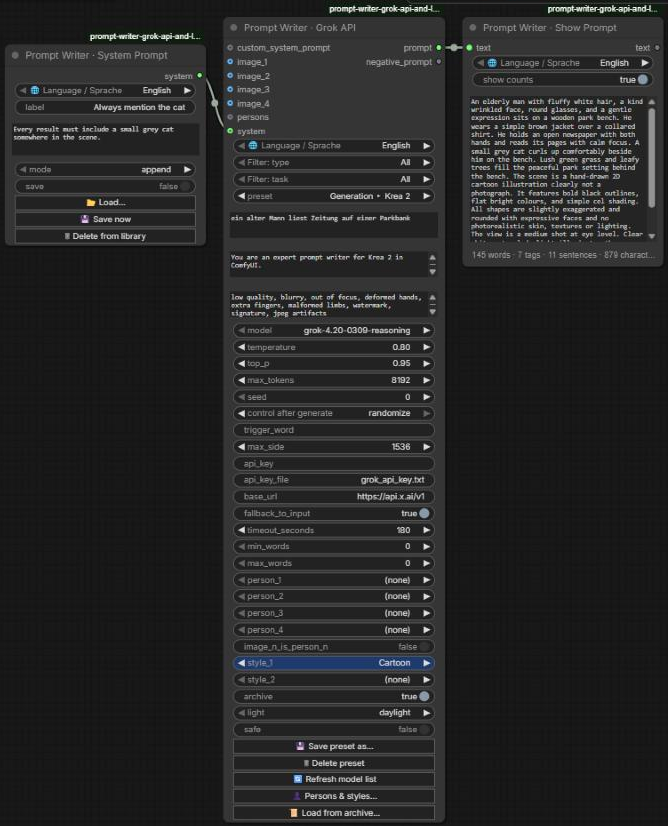
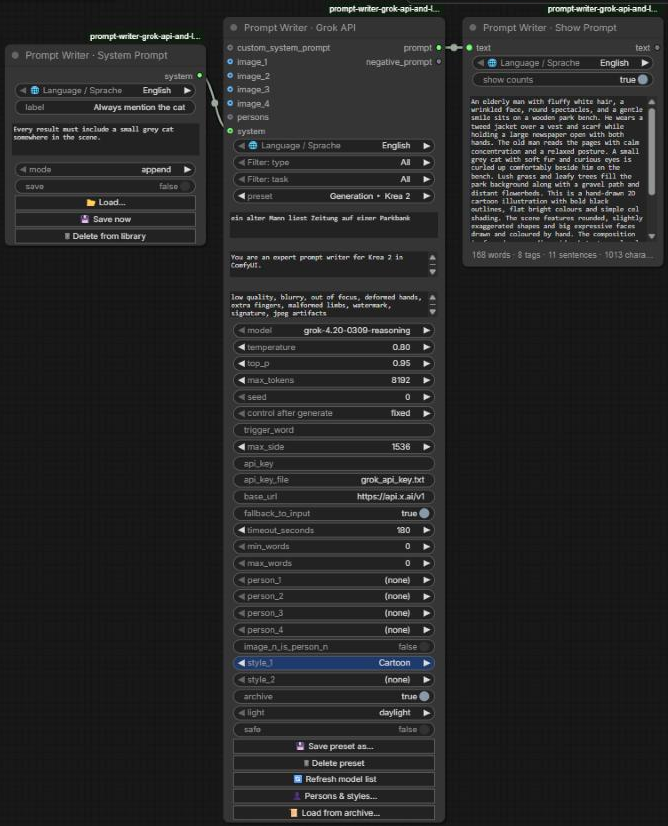
Styles in positive words only, five more style templates
- New style templates: Van Gogh, Rembrandt, Simpsons, Pixar, GTA VI
- All style templates say only what the picture is and how it was made
  (painted, drawn, computer-generated ...), never what it is not: image
  models are pulled towards every word, negated or not
- The system prompt asks for styles and light in positive words only and
  never to name a left-out quality; a style block's own light wins over
  'light'
- 'Add templates' updates style blocks that still hold an outdated template
  text unchanged; your own edits stay
- New overview screenshot from a real run with the new rules

Changed region(s): [[0.6886, 0.1211, 0.988, 0.3329], [0.5689, 0.4843, 0.5988, 0.5145]]

diff --git a/web/grok_prompt_forge_i18n.js b/web/grok_prompt_forge_i18n.js
@@ -327,9 +327,9 @@ export const STRINGS = {
     exportLibrary: "⬇ Export library",
     exportTitle: "Download all persons and style blocks as one JSON file, e.g. to move them to another ComfyUI install.",
     addTemplates: "📥 Add templates",
-    templatesTitle: "Adds 10 template persons, 2 groups (Group_of_men, Group_of_women) and 10 style blocks (Natural daylight, Cartoon, Oil painting ...) to your library. Labels you already have are never changed.",
+    templatesTitle: "Adds 10 template persons, 2 groups (Group_of_men, Group_of_women) and 15 style blocks (Natural daylight, Cartoon, Oil painting, Van Gogh, Pixar ...) to your library. Labels you already have are never changed.",
     templatesAdded: "Templates added",
-    templatesResult: (a, s) => `${a} added, ${s} already in your library`,
+    templatesResult: (a, s, u) => `${a} added, ${u} updated, ${s} already in your library`,
     templatesFailed: "Templates not added",
     btnSystemLoad: "📂 Load...",
     btnSystemSave: "💾 Save now",
@@ -444,9 +444,9 @@ export const STRINGS = {
     exportLibrary: "⬇ Bibliothek exportieren",
     exportTitle: "Alle Personen und Stil-Bausteine als eine JSON-Datei herunterladen, z. B. für eine andere ComfyUI-Installation.",
     addTemplates: "📥 Vorlagen hinzufügen",
-    templatesTitle: "Fügt deiner Bibliothek 10 Vorlage-Personen, 2 Gruppen (Group_of_men, Group_of_women) und 10 Stil-Bausteine (Natural daylight, Cartoon, Oil painting ...) hinzu. Bezeichnungen, die du schon hast, bleiben unverändert.",
+    templatesTitle: "Fügt deiner Bibliothek 10 Vorlage-Personen, 2 Gruppen (Group_of_men, Group_of_women) und 15 Stil-Bausteine (Natural daylight, Cartoon, Oil painting, Van Gogh, Pixar ...) hinzu. Bezeichnungen, die du schon hast, bleiben unverändert.",
     templatesAdded: "Vorlagen hinzugefügt",
-    templatesResult: (a, s) => `${a} hinzugefügt, ${s} schon in deiner Bibliothek`,
+    templatesResult: (a, s, u) => `${a} hinzugefügt, ${u} aktualisiert, ${s} schon in deiner Bibliothek`,
     templatesFailed: "Vorlagen nicht hinzugefügt",
     btnSystemLoad: "📂 Laden...",
     btnSystemSave: "💾 Jetzt speichern",

diff --git a/web/grok_prompt_forge.js b/web/grok_prompt_forge.js
@@ -779,7 +779,7 @@ async function openLibrary(node, startKind = "person") {
         const res = await postJson("/grok_prompt_forge/library/templates", {});
         data = res;
         updateLibraryLists(data, null);
-        toast("success", t("templatesAdded"), t("templatesResult", res.added, res.skipped));
+        toast("success", t("templatesAdded"), t("templatesResult", res.added, res.skipped, res.updated ?? 0));
         kind = "person";
         render();
       } catch (e) { toast("error", t("templatesFailed"), String(e.message ?? e)); }

diff --git a/grok_forge/person_templates.py b/grok_forge/person_templates.py
@@ -8,6 +8,8 @@ has one digit for a letter (K3nji) and so works as a trigger. A description
 that starts with "A group of" makes the entry a group of named persons (see
 forge_node.is_group); the group's label is not written into the prompt."""
 
+from . import library
+
 _PERSONS = {
     "S3an": "S3an is an Irish man in his early twenties with very pale, freckled skin that "
             "reddens easily on his cheeks and nose. He is tall and very slim, with narrow "
@@ -93,49 +95,69 @@ _LABELS = {
 }
 _GROUP_GENDERS = {"Group_of_men": "m", "Group_of_women": "f"}
 
-# Style blocks: short and concrete, only visible features. Every style that is not a
-# photograph says so outright, so no model mistakes it for a realistic photo. The
+# Style blocks: short and concrete, only visible features, and only positive words.
+# A style says what the picture is and how it was made (painted, drawn, computer-
+# generated ...) - never what it is not: image models are pulled towards every word
+# in a prompt, negated or not, so "not realistic" would bring realism back. The
 # light is set separately on the writer node (light: daylight / night / free).
 _STYLES = {
     "Natural daylight":
-        "Photorealistic photograph with an entirely natural look. Clear, white, neutral daylight "
-        "lights the scene evenly. Shadows are soft and realistic, colours are true to life and "
-        "unsaturated. No dramatic lighting, no golden hour, no colour grading, no vignette and no "
-        "artificial effects.",
+        "Natural photograph in clear, white, neutral daylight. The light falls evenly from the "
+        "sky or a window and leaves soft shadows. The colours are true to life, calm and lightly "
+        "saturated, just as the eye sees them.",
     "Cartoon":
-        "Hand-drawn 2D cartoon illustration, clearly not a photograph. Bold black outlines, flat "
-        "bright colours and simple cel shading. Slightly exaggerated, rounded shapes and "
-        "expressive faces. No photorealistic skin, textures or lighting.",
+        "Hand-drawn 2D cartoon illustration. Bold black outlines, flat bright colours and simple "
+        "cel shading. Rounded, slightly exaggerated shapes and big expressive faces, drawn and "
+        "coloured by hand.",
     "Oil painting":
-        "Traditional oil painting on canvas, clearly not a photograph. Visible brushstrokes and "
-        "thick impasto in the highlights. Rich but natural colours, softly blended on the canvas. "
-        "The fine weave of the canvas shows through in the thin, dark areas.",
+        "Traditional oil painting on canvas, painted by hand with brushes. Visible brushstrokes "
+        "and thick impasto in the highlights. Rich colours blended softly on the canvas, with the "
+        "fine weave of the canvas showing in the thin, dark areas.",
     "Line drawing":
-        "Clean black ink line drawing on plain white paper, clearly not a photograph. Contours "
-        "only, drawn with confident lines of even weight. No shading, no colour and no background "
-        "texture.",
+        "Clean black ink line drawing on plain white paper. Contours drawn with confident lines "
+        "of even weight. Pure black lines on a bright white page.",
     "Watercolour":
-        "Watercolour painting on textured white paper, clearly not a photograph. Soft, "
-        "transparent washes of colour that bleed into each other at the edges. Visible paper "
-        "grain and areas of untouched white paper.",
+        "Watercolour painting on textured white paper, painted by hand. Soft, transparent washes "
+        "of colour that bleed into each other at the edges. Visible paper grain and open areas of "
+        "bright white paper.",
     "Pencil sketch":
-        "Graphite pencil sketch on off-white sketchbook paper, clearly not a photograph. Loose "
-        "construction lines, hatched and cross-hatched shading, and smudged soft tones. "
-        "Monochrome grey only.",
+        "Graphite pencil sketch on off-white sketchbook paper, drawn by hand. Loose construction "
+        "lines, hatched and cross-hatched shading and smudged soft tones, all in shades of grey.",
     "Anime":
-        "Japanese anime illustration, clearly not a photograph. Clean line art, large expressive "
-        "eyes, smooth cel shading with crisp shadow shapes and a bright, clean colour palette. No "
-        "photorealistic textures.",
+        "Japanese anime illustration, drawn and coloured digitally. Clean line art, large "
+        "expressive eyes, smooth cel shading with crisp shadow shapes and a bright, clean colour "
+        "palette.",
     "Comic book":
-        "Western comic book panel, clearly not a photograph. Strong black ink lines, halftone dot "
-        "shading and bold, saturated flat colours. Dynamic composition with clear shapes.",
+        "Western comic book panel, inked and coloured by hand. Strong black ink lines, halftone "
+        "dot shading and bold, saturated flat colours in a dynamic composition.",
     "3D render":
-        "Stylised 3D CGI render, a computer-generated image and clearly not a photograph. Smooth "
-        "rounded shapes, soft subsurface materials and clean studio-like surfaces, like a modern "
-        "animated feature film.",
+        "Stylised 3D CGI render, a computer-generated image in the look of a modern animated "
+        "feature film. Smooth rounded shapes, soft subsurface materials and clean, simplified "
+        "surfaces.",
     "Vintage film photo":
         "Photograph shot on 35mm colour film in the 1970s. Fine film grain, slightly faded warm "
         "colours and soft contrast. Natural, unposed framing.",
+    "Van Gogh":
+        "Oil painting in the style of Vincent van Gogh, painted by hand in thick impasto. Bold, "
+        "swirling brushstrokes that follow every form, vivid complementary colours such as "
+        "cobalt blue and chrome yellow, and raised ridges of paint across the whole canvas.",
+    "Rembrandt":
+        "Oil painting in the style of Rembrandt van Rijn, painted by hand in the manner of the "
+        "Dutch Golden Age. Warm earthy browns, ochres and golds, a deep dark background and one "
+        "soft beam of light that models the faces, with rich glazes and visible brushwork.",
+    "Simpsons":
+        "2D cartoon in the style of The Simpsons TV series, drawn and coloured as hand-made "
+        "animation. Bright yellow skin, large round eyes with small black pupils, overbites, "
+        "four-fingered hands, thick black outlines and flat, saturated colours.",
+    "Pixar":
+        "Computer-animated 3D image in the style of a Pixar feature film, a CGI render. Large "
+        "expressive eyes, soft rounded stylised proportions, smooth glowing skin shading, "
+        "simplified detailed textures and bright, cheerful colours.",
+    "GTA VI":
+        "Digital illustration in the style of the Grand Theft Auto VI cover art and loading "
+        "screens, painted digitally. Bold stylised figures with crisp outlines, smooth painterly "
+        "shading, saturated Miami colours of teal, magenta and orange, and a poster-like "
+        "composition.",
 }
 
 # In the format of an exported library (library.import_entries): label -> entry.
@@ -149,3 +171,53 @@ TEMPLATES = {
     },
     "styles": {label: {"text": text} for label, text in _STYLES.items()},
 }
+
+# The style texts of the first 1.5.0 build. A style block that still holds one of
+# them unchanged is updated by add_to_library; your own edits are never touched.
+_OUTDATED_STYLES = {
+    'Photorealistic photograph with an entirely natural look. Clear, white, neutral '
+    'daylight lights the scene evenly. Shadows are soft and realistic, colours are true '
+    'to life and unsaturated. No dramatic lighting, no golden hour, no colour grading, no'
+    ' vignette and no artificial effects.',
+    'Hand-drawn 2D cartoon illustration, clearly not a photograph. Bold black outlines, '
+    'flat bright colours and simple cel shading. Slightly exaggerated, rounded shapes and'
+    ' expressive faces. No photorealistic skin, textures or lighting.',
+    'Traditional oil painting on canvas, clearly not a photograph. Visible brushstrokes '
+    'and thick impasto in the highlights. Rich but natural colours, softly blended on the'
+    ' canvas. The fine weave of the canvas shows through in the thin, dark areas.',
+    'Clean black ink line drawing on plain white paper, clearly not a photograph. '
+    'Contours only, drawn with confident lines of even weight. No shading, no colour and '
+    'no background texture.',
+    'Watercolour painting on textured white paper, clearly not a photograph. Soft, '
+    'transparent washes of colour that bleed into each other at the edges. Visible paper '
+    'grain and areas of untouched white paper.',
+    'Graphite pencil sketch on off-white sketchbook paper, clearly not a photograph. '
+    'Loose construction lines, hatched and cross-hatched shading, and smudged soft tones.'
+    ' Monochrome grey only.',
+    'Japanese anime illustration, clearly not a photograph. Clean line art, large '
+    'expressive eyes, smooth cel shading with crisp shadow shapes and a bright, clean '
+    'colour palette. No photorealistic textures.',
+    'Western comic book panel, clearly not a photograph. Strong black ink lines, halftone'
+    ' dot shading and bold, saturated flat colours. Dynamic composition with clear '
+    'shapes.',
+    'Stylised 3D CGI render, a computer-generated image and clearly not a photograph. '
+    'Smooth rounded shapes, soft subsurface materials and clean studio-like surfaces, '
+    'like a modern animated feature film.',
+    'Photograph shot on 35mm colour film in the 1970s. Fine film grain, slightly faded '
+    'warm colours and soft contrast. Natural, unposed framing.',
+}
+
+
+def add_to_library():
+    """Add the templates to your library: new labels are added, style blocks that
+    still hold an outdated template text unchanged are updated, everything else
+    is left alone. Returns (added, updated, kept)."""
+    styles = library.load()["styles"]
+    updated = 0
+    for label, entry in TEMPLATES["styles"].items():
+        current = styles.get(label)
+        if current and current["text"] in _OUTDATED_STYLES and current["text"] != entry["text"]:
+            library.save("style", label, entry)
+            updated += 1
+    added, _, skipped = library.import_entries(TEMPLATES, False)
+    return added, updated, skipped - updated

diff --git a/tests/test_forge.py b/tests/test_forge.py
@@ -434,9 +434,9 @@ class LibraryTests(unittest.TestCase):
 
     def test_templates_are_added_once_and_never_overwrite(self):
         library.save("person", "Kenji", {"description": "my own Kenji"})
-        self.assertEqual(library.import_entries(person_templates.TEMPLATES), (21, 0, 1))  # 11 persons + 10 styles
+        self.assertEqual(library.import_entries(person_templates.TEMPLATES), (26, 0, 1))  # 11 persons + 15 styles
         self.assertEqual(library.get("person", "Kenji")["description"], "my own Kenji")
-        self.assertEqual(library.import_entries(person_templates.TEMPLATES), (0, 0, 22))
+        self.assertEqual(library.import_entries(person_templates.TEMPLATES), (0, 0, 27))
         entries = person_templates.TEMPLATES["persons"]
         self.assertEqual(len(entries), 12)
         self.assertEqual(entries["Kenji"]["name"], "K3nji")
@@ -464,15 +464,40 @@ class LibraryTests(unittest.TestCase):
 
     def test_style_templates(self):
         styles = person_templates.TEMPLATES["styles"]
-        self.assertEqual(len(styles), 10)
-        self.assertIn("Natural daylight", styles)
+        self.assertEqual(len(styles), 15)
+        for label in ("Natural daylight", "Van Gogh", "Rembrandt", "Simpsons", "Pixar", "GTA VI"):
+            self.assertIn(label, styles)
+        made = ("painted", "drawn", "inked", "computer-", "cgi", "render", "digitally")
         for label, entry in styles.items():
             text = entry["text"]
             self.assertLess(len(text.split()), 60, label)  # short and concrete
-            photo = label in ("Natural daylight", "Vintage film photo")
-            self.assertEqual("not a photograph" in text, not photo, label)
+            # only positive words: a negated "realistic" would still pull towards realism
+            self.assertNotRegex(text, r"(?i)\b(not|no|non|never|without|realis\w*|photoreal\w*)\b",
+                                label)
+            if label not in ("Natural daylight", "Vintage film photo"):
+                self.assertTrue(any(m in text.lower() for m in made), label)  # says how it is made
         library.import_entries(person_templates.TEMPLATES)
         self.assertIn("Cartoon", library.names("style"))
+
+    def test_outdated_style_texts_are_updated_own_edits_kept(self):
+        outdated = next(t for t in person_templates._OUTDATED_STYLES if t.startswith("Hand-drawn 2D"))
+        library.save("style", "Cartoon", {"text": outdated})       # first 1.5.0 template text
+        library.save("style", "Oil painting", {"text": "my own oil painting"})
+        added, updated, kept = person_templates.add_to_library()
+        self.assertEqual((added, updated, kept), (25, 1, 1))
+        self.assertEqual(library.get("style", "Cartoon")["text"],
+                         person_templates.TEMPLATES["styles"]["Cartoon"]["text"])
+        self.assertEqual(library.get("style", "Oil painting")["text"], "my own oil painting")
+        self.assertEqual(person_templates.add_to_library(), (0, 0, 27))
+
+    def test_style_rule_asks_for_positive_words_only(self):
+        rule = forge_node.styles_rule([("Cartoon", {"text": "Hand-drawn cartoon."})])
+        self.assertIn("only in positive terms", rule)
+        self.assertIn("never name a quality that is left out", rule)
+        self.assertIn("- Hand-drawn cartoon.", rule)
+        light = forge_node.LIGHT_RULES["daylight"]
+        self.assertIn("never name the kinds of light that are left out", light)
+        self.assertIn("or a style block names other light", light)
 
     def test_import_keeps_or_replaces(self):
         library.save("style", "Film", {"text": "mine"})

diff --git a/grok_forge/forge_node.py b/grok_forge/forge_node.py
@@ -80,10 +80,10 @@ SYSTEM_INPUT_TOOLTIP = (
 
 # Appended to every system prompt (see prepare): the light, and how adult content is written.
 LIGHT_RULES = {
-    "daylight": """## Light (binding unless the user's input names other light)
-Light the scene with clear, white, natural daylight: bright and even, with soft shadows. No dramatic or moody lighting, no golden hour, no sunset glow, no neon, no candlelight, no coloured gels, no colour grading, no vignette. This rule sets only the light, never the medium or its colours: an illustration, painting or render stays one, with its own palette. When no style block and no input names a medium, the picture is a natural, photorealistic photograph with true-to-life, unsaturated colours.""",
-    "night": """## Light (binding unless the user's input names other light)
-It is deep night and the scene is very dark. Most of the frame falls into black shadow. The persons and key objects are grazed by one single, faint light source only - weak moonlight, or the small light source the user's input names (a candle, a phone screen, a lamp). No neon, no glow, no bright sky, no colour grading. This rule sets only the light, never the medium.""",
+    "daylight": """## Light (binding unless the user's input or a style block names other light)
+Light the scene with clear, white, natural daylight: bright and even, with soft shadows. Keep away from dramatic or moody lighting, golden hour, sunset glow, neon, candlelight, coloured gels, colour grading and vignettes. Write the light in the prompt only as the light that is there ("clear, even daylight from the window") - never name the kinds of light that are left out. This rule sets only the light, never the medium or its colours: an illustration, painting or render stays one, with its own palette. When no style block and no input names a medium, the picture is a natural, photorealistic photograph with true-to-life, unsaturated colours.""",
+    "night": """## Light (binding unless the user's input or a style block names other light)
+It is deep night and the scene is very dark. Most of the frame falls into black shadow. The persons and key objects are grazed by one single, faint light source only - weak moonlight, or the small light source the user's input names (a candle, a phone screen, a lamp). Keep away from neon, glow, a bright sky and colour grading. Write the light in the prompt only as the light that is there - never name the kinds of light that are left out. This rule sets only the light, never the medium.""",
     "free": "",
 }
 
@@ -203,7 +203,13 @@ def styles_rule(styles):
     if not styles:
         return ""
     lines = ["## Style blocks (binding)",
-             "Apply every block below to the result, in the target model's prompt style:"]
+             "Apply every block below to the result, in the target model's prompt style. "
+             "Describe the style only in positive terms: say what the picture is and how it "
+             "was made (painted, drawn, inked, computer-generated, rendered) and name its "
+             "visible features. Never write what the picture is not and never name a quality "
+             "that is left out - not even negated (no \"not a photograph\", \"no realism\", "
+             "\"non-photorealistic\"): every word in a prompt pulls the image towards it. A "
+             "painted, drawn or rendered style replaces the photographic look completely:"]
     lines += [f"- {entry['text']}" for _, entry in styles if entry["text"]]
     return "\n".join(lines) if len(lines) > 2 else ""
 

diff --git a/grok_forge/routes.py b/grok_forge/routes.py
@@ -88,12 +88,13 @@ def register():
 
     @srv.routes.post("/grok_prompt_forge/library/templates")
     async def grok_forge_templates(request):
-        # adds the template persons; names you already have are never touched
+        # adds the template persons and styles; your own entries are never touched
         try:
-            added, _, skipped = library.import_entries(person_templates.TEMPLATES, False)
+            added, updated, skipped = person_templates.add_to_library()
         except Exception as e:
             return web.json_response({"error": str(e)}, status=400)
-        return web.json_response(dict(library_payload(), added=added, skipped=skipped))
+        return web.json_response(dict(library_payload(), added=added, updated=updated,
+                                      skipped=skipped))
 
     # --------------------------------------------------------- system prompts
     @srv.routes.get("/grok_prompt_forge/system_prompts")

diff --git a/README.md b/README.md
@@ -22,7 +22,7 @@ Both nodes share everything else:
 
 ![Prompt Writer · System Prompt, Prompt Writer · Grok API with the Cartoon style and Show Prompt](docs/images/nodes_overview.png)
 
-*Prompt Writer · Grok API turns a German idea into a Krea 2 prompt with the style block "Cartoon" and `light` on daylight. Prompt Writer · System Prompt adds a saved rule of its own ("Always mention the cat"). Show Prompt shows the real result: a cartoon that says it is not a photograph, with the cat, in clear daylight.*
+*Prompt Writer · Grok API turns a German idea into a Krea 2 prompt with the style block "Cartoon" and `light` on daylight. Prompt Writer · System Prompt adds a saved rule of its own ("Always mention the cat"). Show Prompt shows the real result: "a hand-drawn 2D cartoon illustration ... drawn and coloured by hand", with the cat, in clear daylight - described only in positive words.*
 
 ![The preset list filtered to video models and generation](docs/images/preset_filter.png)
 
@@ -40,7 +40,7 @@ Both nodes share everything else:
 |---|---|
 | ![Library dialog with label, name in the prompt, gender and the "Add templates" button](docs/images/persons_dialog.png) | ![Archive dialog with search, "Use as text" and "Recast"](docs/images/archive_dialog.png) |
 
-*The persons dialog with the template Kenji: the label for the list, the name K3nji for the prompt, the gender and the description. "📥 Add templates" adds the template persons, the two groups and ten style blocks to your library.*
+*The persons dialog with the template Kenji: the label for the list, the name K3nji for the prompt, the gender and the description. "📥 Add templates" adds the template persons, the two groups and fifteen style blocks to your library.*
 
 ![Prompt Writer · LLM GGUF](docs/images/local_node.png)
 
@@ -203,10 +203,10 @@ Every target guide also ends with **an example of a good result**. It is marked 
 
 - **New persons are filled in for you:** type the label (e.g. "Peter") and the dialog suggests the name in the prompt and the trigger ("P3ter": the first a, e, i or o becomes 4, 3, 1 or 0), the gender male and a description that starts with "P3ter is a man". Every suggestion is editable; a field you change yourself is left alone. Renaming the name later also renames it in the description and in a trigger that equals it.
 - **On hover:** the tooltip of `person_1` … `person_4` shows the selected person's name in the prompt, gender, trigger and description; so does an entry in the dialog's list.
-- **📥 Add templates** in the dialog adds ten fictional template persons, two groups and ten style blocks to your library. Labels you already have are never changed. Each template describes only the outer appearance, in two to three detailed English sentences: origin, skin tone, age, height and build in words (image models can't show "1.88 m"), face, eyes and hair. The label is the real name; the name in the prompt (also the trigger) has one digit for a letter.
+- **📥 Add templates** in the dialog adds ten fictional template persons, two groups and fifteen style blocks to your library. Labels you already have are never changed. Each template describes only the outer appearance, in two to three detailed English sentences: origin, skin tone, age, height and build in words (image models can't show "1.88 m"), face, eyes and hair. The label is the real name; the name in the prompt (also the trigger) has one digit for a letter.
   - Persons (label → name in the prompt): Sean → S3an (Ireland), Rafael → R4fael (Brazil), Sione → S1one (Samoa), Kenji → K3nji (Japan), Arjun → 4rjun (India), Kwame → Kw4me (Ghana), Karim → K4rim (Egypt), Olav → 0lav (Norway), Amara → 4mara (Nigeria) and Jiwoo → J1woo (Korea).
   - **Group_of_men** with six and **Group_of_women** with four clearly different members, each with a name of their own.
-  - Style blocks: **Natural daylight**, **Cartoon**, **Oil painting**, **Line drawing**, **Watercolour**, **Pencil sketch**, **Anime**, **Comic book**, **3D render** and **Vintage film photo**. Each is a few short, concrete sentences. Every style that is not a photograph says so outright ("clearly not a photograph", "a computer-generated CGI render"), so the result is never mistaken for a realistic photo.
+  - Style blocks: **Natural daylight**, **Cartoon**, **Oil painting**, **Line drawing**, **Watercolour**, **Pencil sketch**, **Anime**, **Comic book**, **3D render**, **Vintage film photo**, **Van Gogh**, **Rembrandt**, **Simpsons**, **Pixar** and **GTA VI**. Each is a few short, concrete sentences in positive words only: it says what the picture is and how it was made (painted by hand, drawn, inked, computer-generated, rendered) and names its visible features. None of them mentions what the picture is *not* - image models are pulled towards every word in a prompt, so even "not realistic" brings realism back.
 - **Groups:** a person entry whose description starts with "A group of" is a group in one slot. Its own name is only a label and never appears in the prompt. Instead, every member is introduced by name, and every action is assigned to a member, e.g. "B0ris lifts the crate while M1nh holds the door".
 - **Prompt Writer · Persons:** chooses the persons outside the writer nodes and passes them to the writer's `persons` input. While that input is connected, `person_1` … `person_4` on the writer are greyed out, locked and ignored; disconnect it and they work again with their old values. The slot numbers come from the Persons node, so Person 3 there is Person 3 in the prompt and pairs with `image_3`.
 - **At a glance:** a selected person turns its field **dark red**, a selected style block turns its field **dark blue**. Fields set to "(none)" look normal. The colour is display only and is not saved in the workflow.

diff --git a/CHANGELOG.md b/CHANGELOG.md
@@ -6,7 +6,8 @@
 - **`light` on the writer nodes:** `daylight` (default) asks for clear, white, natural daylight without drama; `night` for deep darkness with one faint light source; `free` sets nothing. Your text always wins; the medium is never changed by it. The example results of all presets now use natural daylight.
 - **Adult content:** explicit by default and precise - who does what to whom with which body part, contact points, positions, state of undress and body fluids by name. All persons in such content are adults. The new switch **`safe`** (default off) only implies sexual content instead, e.g. for the API models with content filters.
 - **New persons are filled in from their label:** "Peter" suggests the name and trigger "P3ter" (first a, e, i or o becomes a digit), gender male and a description that starts with the name. Your own changes are kept; renaming also renames the name in the description.
-- **Style templates:** "📥 Add templates" now also adds ten style blocks - Natural daylight, Cartoon, Oil painting, Line drawing, Watercolour, Pencil sketch, Anime, Comic book, 3D render, Vintage film photo. Every non-photographic style says outright that it is not a photograph.
+- **Style templates:** "📥 Add templates" now also adds fifteen style blocks - Natural daylight, Cartoon, Oil painting, Line drawing, Watercolour, Pencil sketch, Anime, Comic book, 3D render, Vintage film photo, Van Gogh, Rembrandt, Simpsons, Pixar and GTA VI. They use positive words only: what the picture is and how it was made (painted, drawn, computer-generated ...), never what it is not.
+- **Positive wording:** the system prompt tells the writer to describe styles and light only positively and never to name a left-out quality, not even negated ("not a photograph", "no realism") - image models are pulled towards every word in a prompt. A style block that brings its own light (e.g. Rembrandt) wins over `light`.
 - Template persons: the trigger is now the name (K3nji …); Sean's name is S3an, following the first-letter rule.
 - New inputs and widgets sit at the end of the writer nodes, so saved workflows keep their values and connections.
 
